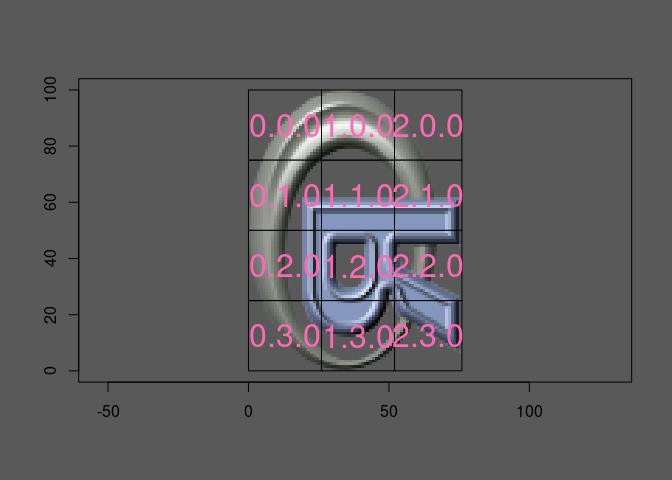
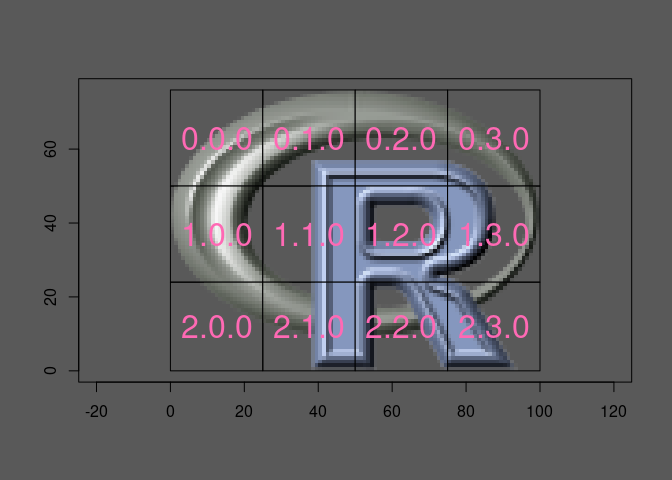
judicious, defensible, transpose

diff --git a/README.md b/README.md
@@ -15,12 +15,25 @@ it visible. Reach out if you’re interested, I don’t really think I can
 write a Zarr implementation, but I can write a toy version with enough
 chops to show what’s happening to folks who know R.
 
-Also maybe we can do the kerchunk referencing thing with some example
-NetCDF files.
-
 For now I’m sticking with 3D only because it’s easy to think about and
 show easy illustrations, little chunks of RGB array so I know I have
 something sensible and not just one of those sliding tile games.
+
+You can watch me slowly increment this to something useful, I’m obsessed
+with how cool Zarr is how it is composed of very general pieces. (And, I
+know about {Rarr} and {pizarr} and GDAL multidim and stars and terra,
+not wanting to undercut those this is just a learning exercise for now).
+
+## TODO
+
+- n-d tiling (generalize {grout})
+- create json metadata
+- create parquet metadata
+- make an example that avoids degenerate coordinate referencing …
+- encoding of chunks and read/write
+
+Also maybe we can do the kerchunk referencing thing with some example
+NetCDF files.
 
 ``` r
 f <- system.file("img", "Rlogo.png", package="png", mustWork = TRUE)
@@ -33,27 +46,29 @@ dim(a)
 
 ``` r
 
+## let's transpose and flip
+a <- aperm(a, c(2, 1, 3))
 ## we have a tiling logic, let's go for 26x25x4
 
 ## hypertidy/grout on github
-tiling <- grout::grout(dim(a)[1:2], blocksize = c(26, 25))
+tiling <- grout::grout(dim(a)[1:2], blocksize = c(25, 26))
 idx <- grout::tile_index(tiling)
 idx
 #> # A tibble: 12 × 11
 #>     tile offset_x offset_y tile_col tile_row  ncol  nrow  xmin  xmax  ymin  ymax
 #>    <int>    <dbl>    <dbl>    <dbl>    <dbl> <dbl> <dbl> <dbl> <dbl> <dbl> <dbl>
-#>  1     1        0        0        1        1    26    25     0    26    75   100
-#>  2     2       26        0        2        1    26    25    26    52    75   100
-#>  3     3       52        0        3        1    24    25    52    76    75   100
-#>  4     4        0       25        1        2    26    25     0    26    50    75
-#>  5     5       26       25        2        2    26    25    26    52    50    75
-#>  6     6       52       25        3        2    24    25    52    76    50    75
-#>  7     7        0       50        1        3    26    25     0    26    25    50
-#>  8     8       26       50        2        3    26    25    26    52    25    50
-#>  9     9       52       50        3        3    24    25    52    76    25    50
-#> 10    10        0       75        1        4    26    25     0    26     0    25
-#> 11    11       26       75        2        4    26    25    26    52     0    25
-#> 12    12       52       75        3        4    24    25    52    76     0    25
+#>  1     1        0        0        1        1    25    26     0    25    50    76
+#>  2     2       25        0        2        1    25    26    25    50    50    76
+#>  3     3       50        0        3        1    25    26    50    75    50    76
+#>  4     4       75        0        4        1    25    26    75   100    50    76
+#>  5     5        0       26        1        2    25    26     0    25    24    50
+#>  6     6       25       26        2        2    25    26    25    50    24    50
+#>  7     7       50       26        3        2    25    26    50    75    24    50
+#>  8     8       75       26        4        2    25    26    75   100    24    50
+#>  9     9        0       52        1        3    25    24     0    25     0    24
+#> 10    10       25       52        2        3    25    24    25    50     0    24
+#> 11    11       50       52        3        3    25    24    50    75     0    24
+#> 12    12       75       52        4        3    25    24    75   100     0    24
 ```
 
 ``` r
@@ -97,7 +112,7 @@ split_array_blocks <- function(x, index, n3 = 4) {
 l <- split_array_blocks(a, idx)
 
 ## ok so we're not n-dimension yet
-chunk <- apply(cbind(idx$tile_col - 1, idx$tile_row - 1, 0), 1, paste0, collapse = ".")
+chunk <- apply(cbind(idx$tile_row - 1, idx$tile_col - 1, 0), 1, paste0, collapse = ".")
 ```
 
 That indexing for the chunks 0.0.0 –\> 2.3.0 will hold the implicit
